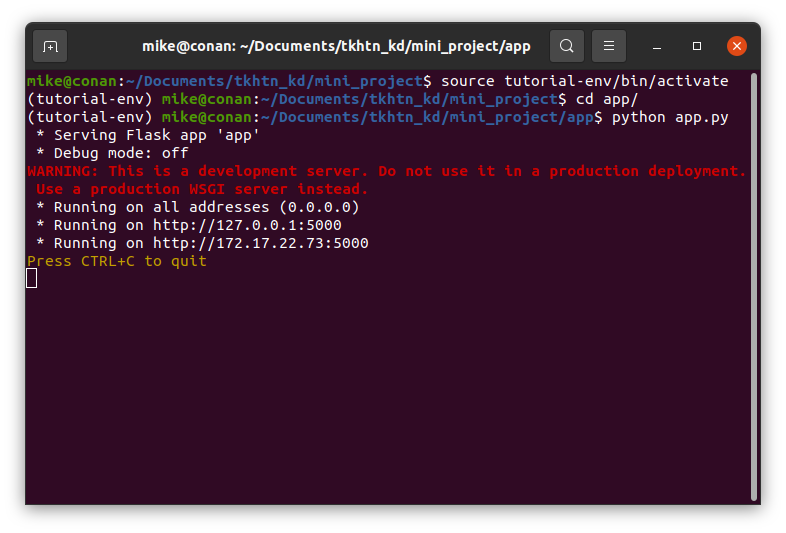
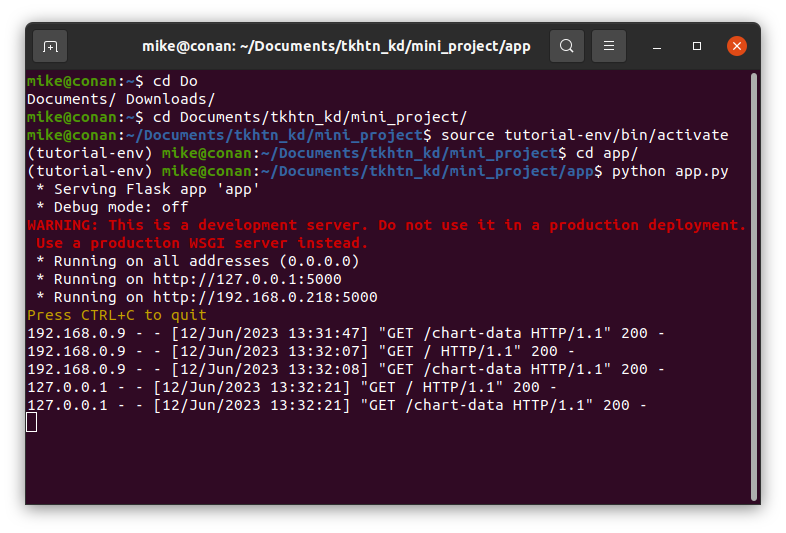
update README.md files

Changed region(s): [[0.0305, 0.1201, 0.9466, 0.8105], [0.7939, 0.6604, 0.8244, 0.7205], [0.7939, 0.6004, 0.8244, 0.6304]]

diff --git a/README.md b/README.md
@@ -40,14 +40,28 @@ $ python init_db.py
 $ python app.py
 ```
 ![Flask](/readme_folder/flask.png)
-* You can use http://127.0.0.1:5000 to access from your pc/laptop and http://172.17.22.73:5000 to access from your LAN device.
-* If you want your Flask app can access over Internet, you cant use `ngrok`.
-* You can go to the [ngrok main page](https://ngrok.com/) for more information.
+* You can use http://127.0.0.1:5000 to access from your pc/laptop
+
+![localhost](/readme_folder/localhost.png)
+
+* Or use http://192.168.0.128:5000 (this is my IP, replace with your) to access from your LAN device.
+
+![LAN](/readme_folder/LAN.png)
+* If you want your Flask app can access over Internet, you can use `ngrok`.
+* You can go to the [ngrok home](https://ngrok.com/) or [Miguel Grinberg's blog guide](https://blog.miguelgrinberg.com/post/access-localhost-from-your-phone-or-from-anywhere-in-the-world) for more information.
 * By the way opening a parallel terminal and activate your virtual environment and run `ngrok` corresponding Flask app port.
 ```
 $ source tutorial-env/bin/activate
 $ ngrok http 5000
 ```
-* You can use the `Forwarding` address to access from any network.
+* You can use the `Forwarding address` to access from any network.
+
+![ngrok terminal](/readme_folder/ngrok_terminal.png)
+
+* You need accept to visit site
+
+![ngrok accept](/readme_folder/ngrok_accept.png)
+
+* The result
 
 ![ngrok](/readme_folder/ngrok.png)
